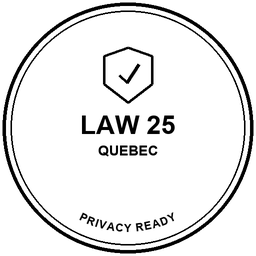
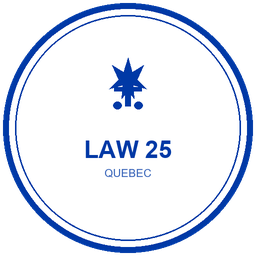
Restore compliance seals with Quebec, Canada, HIPAA, and self-host marks.

Changed region(s): [[0.0, 0.0, 1.0, 1.0], [0.3125, 0.1875, 0.6875, 0.625], [0.4062, 0.6562, 0.5938, 0.7188]]

diff --git a/src/components/ComplianceBadges.tsx b/src/components/ComplianceBadges.tsx
@@ -1,58 +1,30 @@
 import { Link } from 'react-router-dom';
 
-type Seal = {
-  id: string;
-  label: string;
-  lines: [string, string];
-};
-
-const SEALS: Seal[] = [
-  { id: 'law25', label: 'Quebec Law 25', lines: ['LAW 25', 'QUEBEC'] },
-  { id: 'pipeda', label: 'PIPEDA', lines: ['PIPEDA', 'CANADA'] },
-  { id: 'hipaa', label: 'HIPAA ready', lines: ['HIPAA', 'READY'] },
-  { id: 'selfhost', label: 'Self hosted', lines: ['SELF', 'HOSTED'] },
+const BADGES = [
+  { label: 'Quebec Law 25', src: '/Images/compliance/law25.png' },
+  { label: 'PIPEDA', src: '/Images/compliance/pipeda.png' },
+  { label: 'HIPAA ready', src: '/Images/compliance/hipaa.png' },
+  { label: 'Self hosted', src: '/Images/compliance/self-hosted.png' },
 ];
-
-function SealIcon({ lines }: { lines: [string, string] }) {
-  return (
-    <svg viewBox="0 0 96 96" className="h-14 w-14 sm:h-16 sm:w-16" aria-hidden>
-      <circle cx="48" cy="48" r="45.5" fill="#fff" stroke="#1a1a1a" strokeWidth="2.5" />
-      <circle cx="48" cy="48" r="39" fill="none" stroke="#1a1a1a" strokeWidth="1.25" />
-      <circle cx="48" cy="48" r="34.5" fill="none" stroke="#1a1a1a" strokeWidth="0.75" opacity="0.35" />
-      <text
-        x="48"
-        y="44"
-        textAnchor="middle"
-        fill="#111"
-        style={{ fontSize: '11px', fontWeight: 700, letterSpacing: '0.04em', fontFamily: 'ui-sans-serif, system-ui, sans-serif' }}
-      >
-        {lines[0]}
-      </text>
-      <text
-        x="48"
-        y="58"
-        textAnchor="middle"
-        fill="#444"
-        style={{ fontSize: '8px', fontWeight: 600, letterSpacing: '0.12em', fontFamily: 'ui-sans-serif, system-ui, sans-serif' }}
-      >
-        {lines[1]}
-      </text>
-    </svg>
-  );
-}
 
 export default function ComplianceBadges() {
   return (
-    <div className="flex flex-wrap items-center justify-center gap-4 sm:gap-5">
-      {SEALS.map((seal) => (
+    <div className="flex flex-wrap items-center justify-center gap-4 sm:gap-6">
+      {BADGES.map((badge) => (
         <Link
-          key={seal.id}
+          key={badge.label}
           to="/safety-security"
           className="inline-flex no-underline opacity-90 hover:opacity-100 transition-opacity"
-          title={seal.label}
-          aria-label={seal.label}
+          title={badge.label}
+          aria-label={badge.label}
         >
-          <SealIcon lines={seal.lines} />
+          <img
+            src={badge.src}
+            alt={badge.label}
+            className="h-14 w-14 sm:h-16 sm:w-16 object-contain"
+            width={64}
+            height={64}
+          />
         </Link>
       ))}
     </div>

diff --git a/scripts/make_compliance_icons.py b/scripts/make_compliance_icons.py
@@ -1,185 +1,148 @@
-"""Spike-style circular seals for Quebec-relevant TechnoHealth badges."""
+"""Compliance seals using each framework's familiar mark/colors."""
 from PIL import Image, ImageDraw, ImageFont
 import os
-import math
 
 OUT = r"c:\Users\umroot\Documents\Technohealth\public\Images\compliance"
 SIZE = 512
 os.makedirs(OUT, exist_ok=True)
 
+NAVY = (15, 23, 42, 255)
+WHITE = (255, 255, 255, 255)
+QUEBEC_BLUE = (0, 57, 166, 255)  # Quebec flag blue
+CANADA_RED = (212, 20, 36, 255)  # Canada red
+HIPAA_TEAL = (14, 116, 144, 255)
+HOST_SLATE = (30, 41, 59, 255)
 
-def find_font(size, bold=True):
-    paths = [
+
+def font(size, bold=True):
+    for p in (
         r"C:\Windows\Fonts\arialbd.ttf" if bold else r"C:\Windows\Fonts\arial.ttf",
         r"C:\Windows\Fonts\segoeuib.ttf" if bold else r"C:\Windows\Fonts\segoeui.ttf",
-        r"C:\Windows\Fonts\arial.ttf",
-    ]
-    for p in paths:
+    ):
         if os.path.exists(p):
             return ImageFont.truetype(p, size)
     return ImageFont.load_default()
 
 
-def circular_alpha(img):
-    mask = Image.new("L", img.size, 0)
-    ImageDraw.Draw(mask).ellipse((0, 0, img.size[0] - 1, img.size[1] - 1), fill=255)
-    out = Image.new("RGBA", img.size, (0, 0, 0, 0))
-    out.paste(img, (0, 0), mask)
-    return out
+def seal(border):
+    img = Image.new("RGBA", (SIZE, SIZE), (0, 0, 0, 0))
+    d = ImageDraw.Draw(img)
+    d.ellipse((6, 6, SIZE - 7, SIZE - 7), fill=WHITE, outline=border, width=12)
+    d.ellipse((30, 30, SIZE - 31, SIZE - 31), outline=border, width=3)
+    return img, d
 
 
-def draw_arc_text(base, text, cx, cy, radius, font, fill=(0, 0, 0, 255), top=True):
-    widths = []
-    for ch in text:
-        b = ImageDraw.Draw(Image.new("RGBA", (1, 1))).textbbox((0, 0), ch, font=font)
-        widths.append(max(1, b[2] - b[0]) + 1)
-    total = sum(widths)
-    span = total / radius
-    if top:
-        angle = -math.pi / 2 - span / 2
-        direction = 1
-    else:
-        angle = math.pi / 2 + span / 2
-        direction = -1
-    for ch, w in zip(text, widths):
-        a = angle + direction * (w / radius) / 2
-        x = cx + radius * math.cos(a)
-        y = cy + radius * math.sin(a)
-        bb = ImageDraw.Draw(Image.new("RGBA", (1, 1))).textbbox((0, 0), ch, font=font)
-        gw, gh = bb[2] - bb[0] + 6, bb[3] - bb[1] + 6
-        glyph = Image.new("RGBA", (max(gw, 10), max(gh, 10)), (0, 0, 0, 0))
-        ImageDraw.Draw(glyph).text((-bb[0] + 3, -bb[1] + 3), ch, font=font, fill=fill)
-        rot = math.degrees(a) + (90 if top else -90)
-        glyph = glyph.rotate(-rot, expand=True, resample=Image.Resampling.BICUBIC)
-        base.alpha_composite(glyph, (int(x - glyph.width / 2), int(y - glyph.height / 2)))
-        angle += direction * (w / radius)
+def centered(d, text, y, fnt, fill):
+    bb = d.textbbox((0, 0), text, font=fnt)
+    d.text(((SIZE - (bb[2] - bb[0])) // 2, y), text, font=fnt, fill=fill)
 
 
-def double_ring(d, size, outer=7, gap=9, inner=3):
-    m = outer // 2 + 2
-    d.ellipse((m, m, size - 1 - m, size - 1 - m), outline=(0, 0, 0, 255), width=outer)
-    m2 = m + outer + gap
-    d.ellipse((m2, m2, size - 1 - m2, size - 1 - m2), outline=(0, 0, 0, 255), width=inner)
+def fleur_de_lis(d, cx, cy, color, s=1.0):
+    # Classic 3-petal fleur-de-lis silhouette
+    body = [
+        (cx, cy - 50 * s),
+        (cx + 8 * s, cy - 22 * s),
+        (cx + 30 * s, cy - 36 * s),
+        (cx + 18 * s, cy - 8 * s),
+        (cx + 36 * s, cy + 10 * s),
+        (cx + 10 * s, cy + 2 * s),
+        (cx + 12 * s, cy + 28 * s),
+        (cx, cy + 14 * s),
+        (cx - 12 * s, cy + 28 * s),
+        (cx - 10 * s, cy + 2 * s),
+        (cx - 36 * s, cy + 10 * s),
+        (cx - 18 * s, cy - 8 * s),
+        (cx - 30 * s, cy - 36 * s),
+        (cx - 8 * s, cy - 22 * s),
+    ]
+    d.polygon(body, fill=color)
+    # band
+    d.rectangle((cx - 26 * s, cy + 6 * s, cx + 26 * s, cy + 14 * s), fill=color)
+    d.rectangle((cx - 5 * s, cy + 14 * s, cx + 5 * s, cy + 42 * s), fill=color)
+    d.ellipse((cx - 28 * s, cy + 34 * s, cx - 12 * s, cy + 48 * s), fill=color)
+    d.ellipse((cx + 12 * s, cy + 34 * s, cx + 28 * s, cy + 48 * s), fill=color)
 
 
-def center_text(d, size, lines):
-    for text, font, y in lines:
-        bb = d.textbbox((0, 0), text, font=font)
-        d.text(((size - (bb[2] - bb[0])) // 2, y), text, font=font, fill=(0, 0, 0, 255))
+def maple_leaf(d, cx, cy, color, s=1.0):
+    leaf = [
+        (cx, cy - 46 * s),
+        (cx + 8 * s, cy - 24 * s),
+        (cx + 28 * s, cy - 34 * s),
+        (cx + 18 * s, cy - 12 * s),
+        (cx + 42 * s, cy - 8 * s),
+        (cx + 22 * s, cy + 2 * s),
+        (cx + 30 * s, cy + 22 * s),
+        (cx + 10 * s, cy + 10 * s),
+        (cx + 12 * s, cy + 32 * s),
+        (cx, cy + 18 * s),
+        (cx - 12 * s, cy + 32 * s),
+        (cx - 10 * s, cy + 10 * s),
+        (cx - 30 * s, cy + 22 * s),
+        (cx - 22 * s, cy + 2 * s),
+        (cx - 42 * s, cy - 8 * s),
+        (cx - 18 * s, cy - 12 * s),
+        (cx - 28 * s, cy - 34 * s),
+        (cx - 8 * s, cy - 24 * s),
+    ]
+    d.polygon(leaf, fill=color)
+    d.rectangle((cx - 4 * s, cy + 10 * s, cx + 4 * s, cy + 48 * s), fill=color)
+
+
+def hipaa_mark(d, cx, cy, color):
+    # Staff + twin serpents (common HIPAA badge motif)
+    d.line([(cx, cy - 40), (cx, cy + 44)], fill=color, width=6)
+    d.ellipse((cx - 11, cy - 54, cx + 11, cy - 32), outline=color, width=4)
+    for dy in (-8, 14):
+        d.arc((cx - 34, cy + dy - 18, cx + 2, cy + dy + 22), 210, 30, fill=color, width=4)
+        d.arc((cx - 2, cy + dy - 18, cx + 34, cy + dy + 22), 150, 330, fill=color, width=4)
+
+
+def server_mark(d, cx, cy, color):
+    d.rounded_rectangle((cx - 42, cy - 38, cx + 42, cy + 38), radius=10, outline=color, width=5)
+    for y in (cy - 22, cy - 2, cy + 18):
+        d.rounded_rectangle((cx - 30, y, cx + 30, y + 14), radius=4, outline=color, width=3)
+        d.ellipse((cx + 16, y + 3, cx + 26, y + 11), fill=color)
 
 
 def make_law25():
-    size = SIZE
-    img = Image.new("RGBA", (size, size), (0, 0, 0, 0))
-    d = ImageDraw.Draw(img)
-    double_ring(d, size)
-    cx = size // 2
-    # fleur-de-lis simplified / maple-leaf-ish Quebec mark: shield
-    shield = [(cx, 95), (cx + 48, 112), (cx + 48, 168), (cx, 205), (cx - 48, 168), (cx - 48, 112)]
-    d.line(shield + [shield[0]], fill=(0, 0, 0, 255), width=5)
-    d.line([(cx - 18, 150), (cx - 2, 165), (cx + 22, 128)], fill=(0, 0, 0, 255), width=6)
-    center_text(d, size, [
-        ("LAW 25", find_font(52), 220),
-        ("QUEBEC", find_font(28), 285),
-    ])
-    draw_arc_text(img, "PRIVACY READY", cx, cx, 200, find_font(22), top=False)
-    return circular_alpha(img)
+    img, d = seal(QUEBEC_BLUE)
+    fleur_de_lis(d, SIZE // 2, 168, QUEBEC_BLUE, 1.05)
+    centered(d, "LAW 25", 272, font(48), QUEBEC_BLUE)
+    centered(d, "QUEBEC", 334, font(22, False), (0, 57, 166, 200))
+    return img
 
 
 def make_pipeda():
-    size = SIZE
-    img = Image.new("RGBA", (size, size), (0, 0, 0, 0))
-    d = ImageDraw.Draw(img)
-    double_ring(d, size)
-    cx = size // 2
-    # maple leaf simplified as circle + check (Canada federal)
-    d.ellipse((cx - 34, 105, cx + 34, 173), outline=(0, 0, 0, 255), width=5)
-    d.line([(cx - 14, 142), (cx - 2, 154), (cx + 16, 126)], fill=(0, 0, 0, 255), width=6)
-    center_text(d, size, [
-        ("PIPEDA", find_font(54), 200),
-        ("CANADA", find_font(28), 270),
-    ])
-    draw_arc_text(img, "FEDERAL PRIVACY", cx, cx, 200, find_font(20), top=False)
-    return circular_alpha(img)
+    img, d = seal(CANADA_RED)
+    maple_leaf(d, SIZE // 2, 160, CANADA_RED, 1.0)
+    centered(d, "PIPEDA", 272, font(46), CANADA_RED)
+    centered(d, "CANADA", 334, font(22, False), (212, 20, 36, 200))
+    return img
 
 
 def make_hipaa():
-    # Prefer Spike's real HIPAA badge if present, else draw
-    spike = os.path.join(OUT, "_spike", "hipaa.png")
-    if os.path.exists(spike):
-        im = Image.open(spike).convert("RGBA")
-        px = im.load()
-        for y in range(im.height):
-            for x in range(im.width):
-                r, g, b, a = px[x, y]
-                px[x, y] = (0, 0, 0, 0) if a < 20 else (0, 0, 0, a)
-        return circular_alpha(im.resize((SIZE, SIZE), Image.Resampling.LANCZOS))
-
-    size = SIZE
-    img = Image.new("RGBA", (size, size), (0, 0, 0, 0))
-    d = ImageDraw.Draw(img)
-    double_ring(d, size)
-    cx = size // 2
-    d.line((cx, cx - 50, cx, cx + 40), fill=(0, 0, 0, 255), width=5)
-    d.arc((cx - 36, cx - 58, cx - 2, cx - 20), 200, 20, fill=(0, 0, 0, 255), width=4)
-    d.arc((cx + 2, cx - 58, cx + 36, cx - 20), 160, 340, fill=(0, 0, 0, 255), width=4)
-    d.arc((cx - 30, cx - 22, cx + 4, cx + 22), 200, 20, fill=(0, 0, 0, 255), width=3)
-    d.arc((cx - 4, cx - 22, cx + 30, cx + 22), 160, 340, fill=(0, 0, 0, 255), width=3)
-    draw_arc_text(img, "HIPAA", cx, cx, 195, find_font(28), top=True)
-    draw_arc_text(img, "COMPLIANT", cx, cx, 195, find_font(24), top=False)
-    return circular_alpha(img)
+    img, d = seal(HIPAA_TEAL)
+    hipaa_mark(d, SIZE // 2, 162, HIPAA_TEAL)
+    centered(d, "HIPAA", 272, font(48), HIPAA_TEAL)
+    centered(d, "READY", 334, font(22, False), (14, 116, 144, 200))
+    return img
 
 
 def make_self_hosted():
-    size = SIZE
-    img = Image.new("RGBA", (size, size), (0, 0, 0, 0))
-    d = ImageDraw.Draw(img)
-    double_ring(d, size)
-    cx = size // 2
-    d.rounded_rectangle((cx - 46, 108, cx + 46, 182), radius=8, outline=(0, 0, 0, 255), width=5)
-    for y in (124, 146, 168):
-        d.rectangle((cx - 32, y, cx + 32, y + 12), outline=(0, 0, 0, 255), width=3)
-        d.ellipse((cx + 18, y + 2, cx + 28, y + 12), fill=(0, 0, 0, 255))
-    center_text(d, size, [
-        ("SELF", find_font(42), 210),
-        ("HOSTED", find_font(42), 260),
-    ])
-    draw_arc_text(img, "YOUR INFRASTRUCTURE", cx, cx, 198, find_font(18), top=False)
-    return circular_alpha(img)
+    img, d = seal(HOST_SLATE)
+    server_mark(d, SIZE // 2, 160, HOST_SLATE)
+    centered(d, "SELF", 268, font(40), HOST_SLATE)
+    centered(d, "HOSTED", 318, font(40), HOST_SLATE)
+    return img
 
 
 def save(img, name):
     path = os.path.join(OUT, name)
     img.resize((256, 256), Image.Resampling.LANCZOS).save(path, "PNG", optimize=True)
-    print("Wrote", name, os.path.getsize(path))
+    print("Wrote", name)
 
-
-# Re-download Spike HIPAA for authenticity
-import urllib.request
-spike_dir = os.path.join(OUT, "_spike")
-os.makedirs(spike_dir, exist_ok=True)
-hipaa_url = "https://cdn.prod.website-files.com/683d56d98426b36891bcd07e/68483b18288d8ad0854c6b91_cd76ad85c0c6084d24b1779c0396b09b_HIPPA.avif"
-try:
-    req = urllib.request.Request(hipaa_url, headers={"User-Agent": "Mozilla/5.0"})
-    with urllib.request.urlopen(req, timeout=30) as resp:
-        open(os.path.join(spike_dir, "hipaa.avif"), "wb").write(resp.read())
-    Image.open(os.path.join(spike_dir, "hipaa.avif")).convert("RGBA").save(
-        os.path.join(spike_dir, "hipaa.png")
-    )
-except Exception as e:
-    print("Spike HIPAA download skipped:", e)
 
 save(make_law25(), "law25.png")
 save(make_pipeda(), "pipeda.png")
 save(make_hipaa(), "hipaa.png")
 save(make_self_hosted(), "self-hosted.png")
-
-# remove obsolete claimed certs
-for obsolete in ["hitrust.png", "soc2.png", "soc2.svg", "self-hosted.svg"]:
-    p = os.path.join(OUT, obsolete)
-    if os.path.exists(p):
-        os.remove(p)
-        print("Removed", obsolete)
-
-import shutil
-shutil.rmtree(spike_dir, ignore_errors=True)
